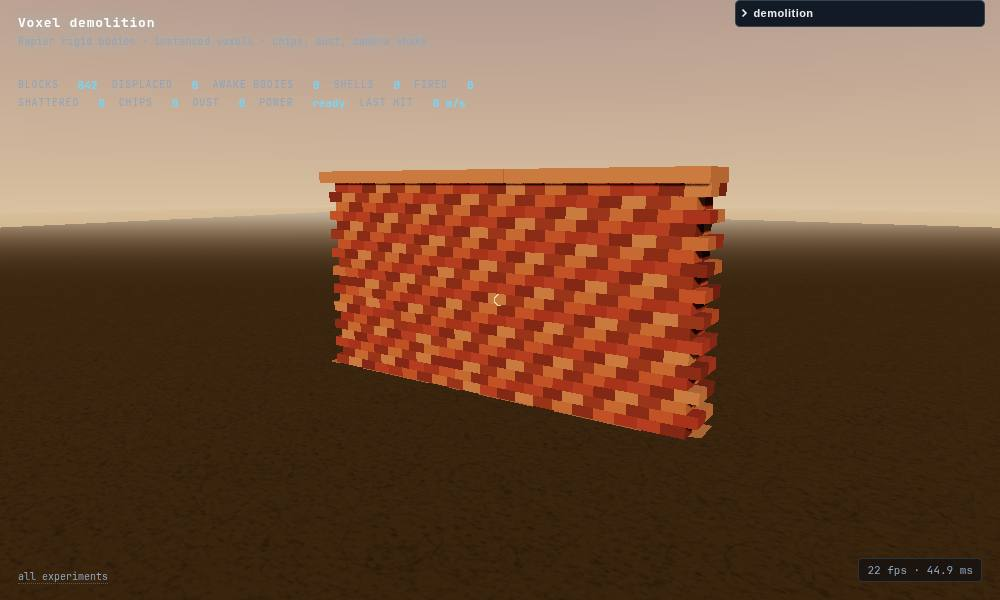
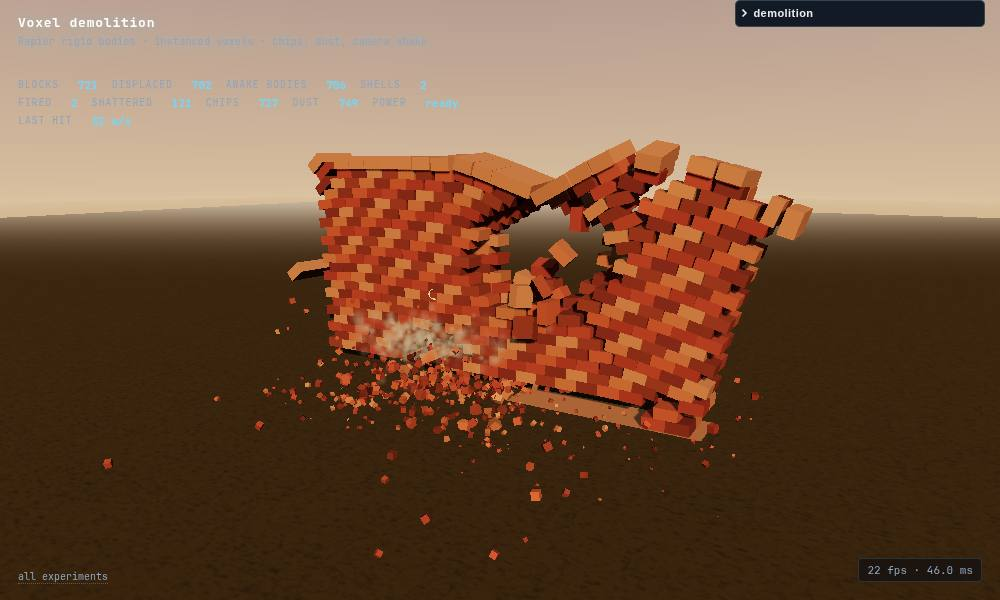
TST-6: exp2 headless API (aim-and-fire at a world point, forced shatter, stats), fire preset startup, sweep + summarize tools

diff --git a/experiments/2-voxel-demolition/main.js b/experiments/2-voxel-demolition/main.js
@@ -312,17 +312,38 @@ lab.expose({
   api: { fire, build, params: P, world, RAPIER, field: () => field, shots, debris, dust, shake,
     setStructure: (k) => { P.structure = k; return build(k); },
     aimAt: (fx, fy) => pointer.ndc.set(fx * 2 - 1, -(fy * 2 - 1)),
-    // headless checks: fire at a world point, force a shatter, read the numbers the HUD shows
-    fireAt: (point) => {
-      const pos = new THREE.Vector3(0, 1.6, 12);
-      const target = new THREE.Vector3(point.x, point.y, point.z);
-      shots.fire(pos, target.sub(pos).normalize());
+    // headless checks: aim at a world point and fire, force a shatter, read the numbers the HUD shows
+    fireAt: (point, power) => {
+      const v = new THREE.Vector3(point.x, point.y, point.z).project(camera);
+      pointer.ndc.set(v.x, v.y);
+      fire(power === undefined ? 1 : power);
     },
-    shatterAt: (point, r) => impacts.shatter(new THREE.Vector3(point.x, point.y, point.z), r || 2),
+    shatterAt: (point, r) => {
+      const c = new THREE.Vector3(point.x, point.y, point.z);
+      const rad = r || 2.2;
+      let n = 0;
+      for (const b of field.byHandle.values()) {
+        if (b.dead) continue;
+        const t = b.body.translation();
+        const d = Math.hypot(t.x - c.x, t.y - c.y, t.z - c.z);
+        if (d > rad) continue;
+        const p = new THREE.Vector3(t.x, t.y, t.z);
+        const push = p.clone().sub(c).normalize().multiplyScalar((1 - d / rad) * 24);
+        b.body.wakeUp();
+        b.body.setLinvel({ x: push.x, y: push.y + 4, z: push.z }, true);
+        destroyed++;
+        field.destroy(b);
+        debris.spawn(p, 10, { color: `#${b.color.getHexString()}`, speed: 6, size: 0.24, spread: 0.5 });
+        n++;
+      }
+      dust.puff(c, Math.round(26 * P.dust), { color: 0xe0d3bb, speed: 3.6, size: 1.2, rise: 2, life: 1.9, spread: 0.6 });
+      shake.add(P.shake * 0.8);
+      field.wakeNear(c, rad + 2.5);
+      return n;
+    },
     stats: () => ({
-      blocks: field.count, built: field.count, displaced: field.displaced(), awake: field.awake(),
-      shells: shots.live.length, fired: shots.fired, shattered: impacts.shattered,
-      chips: debris.count, dust: dust.count, lastImpact: +lastImpact.toFixed(0),
-      contacts: contacts.length, contactsHit: contactsHits, maxImpact: +maxImpact.toFixed(0),
+      blocks: field.items.filter((i) => !i.dead).length, built: field.count, displaced: moved, awake,
+      shells: shots.length, fired: shotsFired, shattered: destroyed, chips: debris.alive, dust: dust.alive,
+      lastImpact: Math.round(lastImpact), contacts, contactsHit, maxImpact: Math.round(maxImpact),
     }) },
 });

diff --git a/experiments/5-volumetric-fire/main.js b/experiments/5-volumetric-fire/main.js
@@ -161,7 +161,9 @@ function applyQuality(q) {
 }
 lab.onQuality(applyQuality);
 lab.setSize();
-applyQuality(lab.quality());     // start on the preset's settings, not on raw defaults
+// a raymarch is the heaviest thing on this page, so it starts on medium, not on the kit's high
+lab.q.quality = "medium";
+applyQuality("medium");
 const size = lab.renderer.getSize(new THREE.Vector3());
 volPass.setSize(size.x, size.y);
 window.addEventListener("resize", () => { const s = renderer.getSize(new THREE.Vector3()); volPass.setSize(s.x, s.y); });
